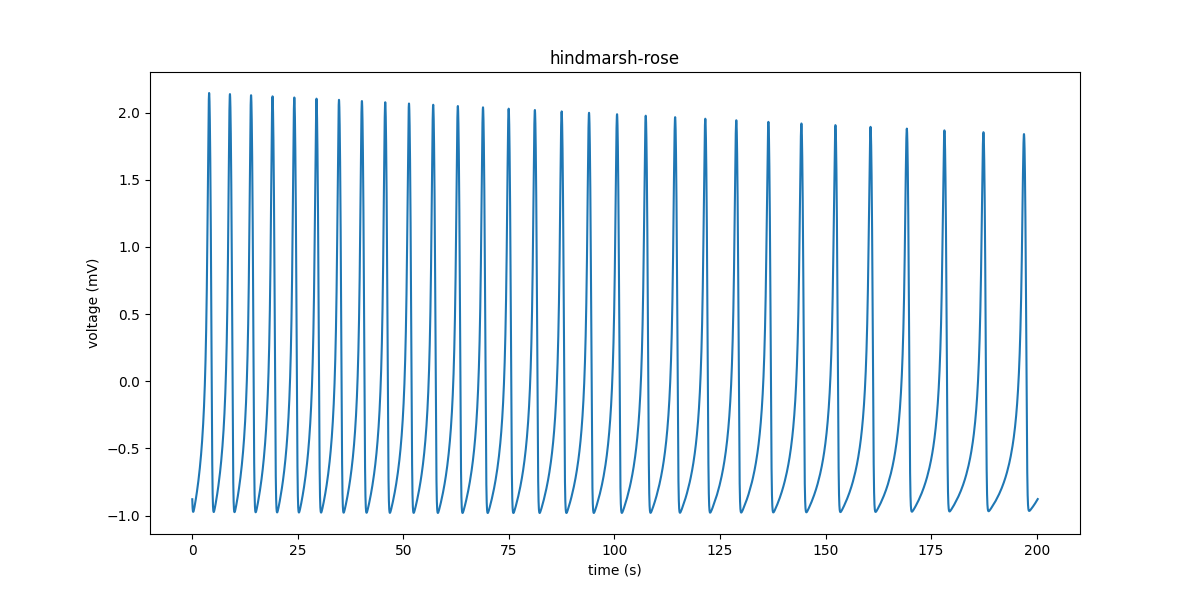
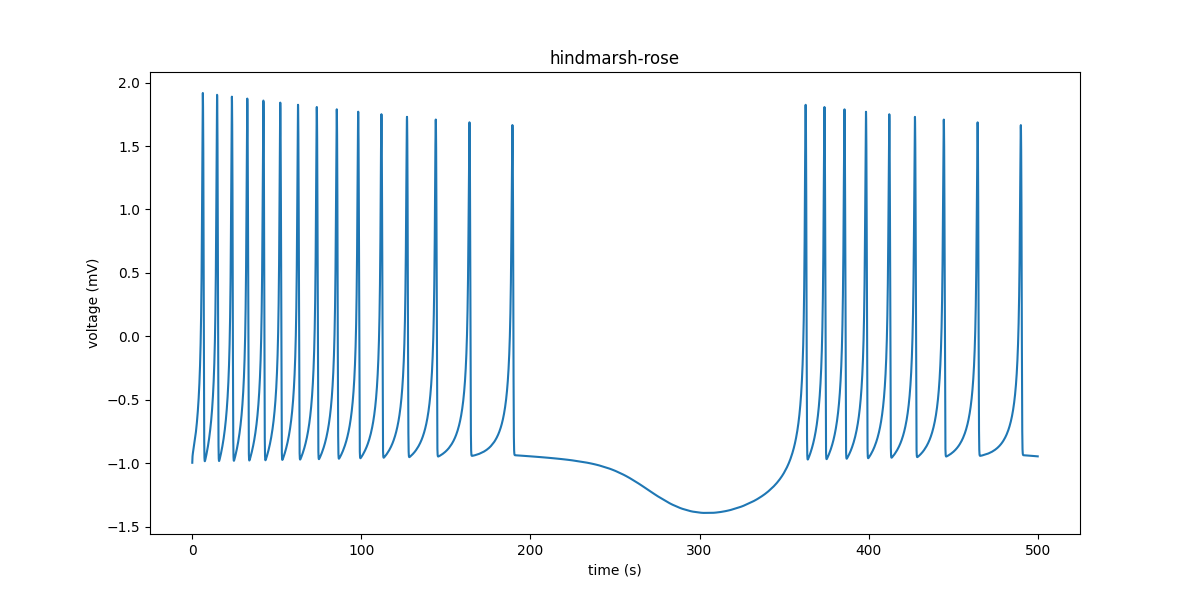
more rates & name change

diff --git a/src/pico-neuron-serial.cpp b/src/pico-neuron-serial.cpp
@@ -74,7 +74,7 @@ vector<double> x;
 vector<double> t;
 int serial_fd;
 float time_counter = 0;
-float incrr = 0.001;
+float incrr = 0.005;
 
 void signal_handler(int signum) {
   cout << "\nSaving data to " << data_writer->directory + data_writer->filename
@@ -163,6 +163,16 @@ speed_t get_baudrate(int baudrate) {
     return B57600;
   case 115200:
     return B115200;
+  case 1000000:
+    return B1000000;
+  case 1152000:
+    return B1152000;
+  case 1500000:
+    return B1500000;
+  case 2000000:
+    return B2000000;
+  case 3000000:
+    return B3000000;
   default:
     cerr << "Unsupported baud rate. Using 9600." << endl;
     return B9600;
@@ -194,7 +204,15 @@ void *serial_read_thread(void *arg) {
           t.push_back(time_counter);
           time_counter += incrr;
         } catch (const invalid_argument &e) {
-          cerr << "Conversion error: [" << line << "] " << e.what() << endl;
+          if (line == "END") {
+            cout << "\nSaving data to "
+                 << data_writer->directory + data_writer->filename << endl;
+            data_writer->write(x, t);
+            close(serial_fd);
+            exit(0);
+          } else {
+            cerr << "Conversion error: [" << line << "] " << e.what() << endl;
+          }
         }
       }
     }
@@ -207,7 +225,7 @@ int main(int argc, char *argv[]) {
   string filename = "hindmarsh-rose.csv";
   string separator = " ";
   string serial_name = "/dev/ttyUSB0";
-  int serial_id = 9600;
+  int serial_id = 1000000;
 
   // Simple argument parsing
   for (int i = 1; i < argc; ++i) {
@@ -220,7 +238,7 @@ int main(int argc, char *argv[]) {
       separator = argv[++i];
     else if ((arg == "-sn" || arg == "--serial-name") && i + 1 < argc)
       serial_name = argv[++i];
-    else if ((arg == "-si" || arg == "--serial-id") && i + 1 < argc)
+    else if ((arg == "-sr" || arg == "--serial-rate") && i + 1 < argc)
       serial_id = stoi(argv[++i]);
   }
 
